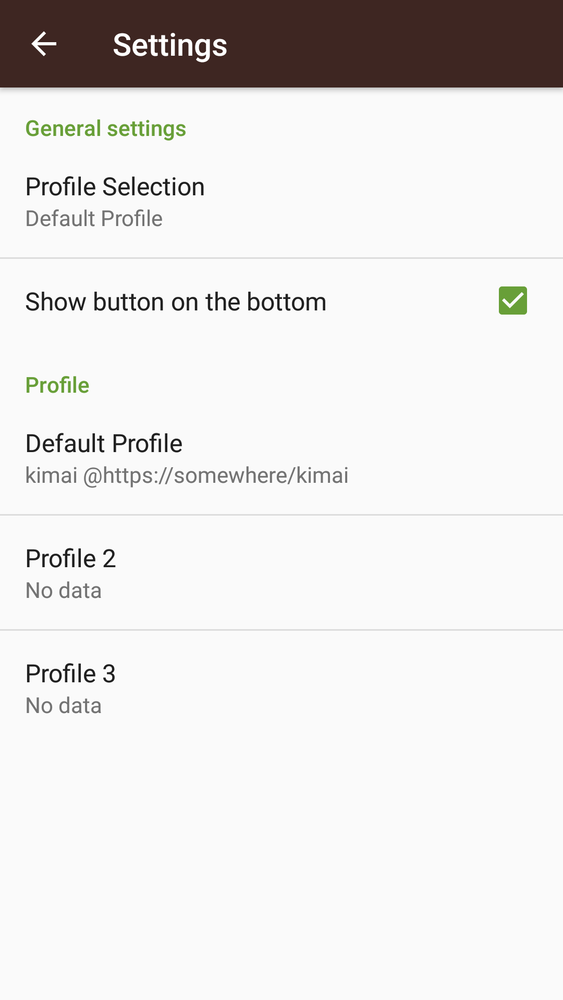
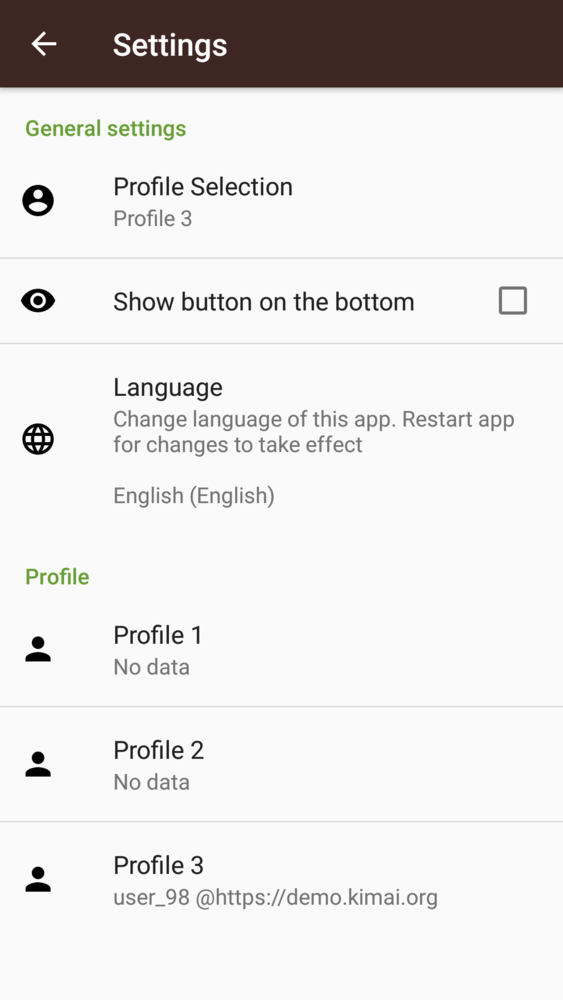
HTTP basic auth ; Update metadata graphics ;Update readme layout

diff --git a/app/src/main/java/io/github/gsantner/webappwithlogin/activity/MainActivity.java b/app/src/main/java/io/github/gsantner/webappwithlogin/activity/MainActivity.java
@@ -15,6 +15,7 @@ import android.view.KeyEvent;
 import android.view.Menu;
 import android.view.MenuItem;
 import android.view.View;
+import android.webkit.HttpAuthHandler;
 import android.webkit.SslErrorHandler;
 import android.webkit.WebChromeClient;
 import android.webkit.WebSettings;
@@ -73,7 +74,7 @@ public class MainActivity extends AppCompatActivity implements NavigationView.On
         fab.setVisibility(appSettings.isShowMainFab() ? View.VISIBLE : View.GONE);
         appSettings.setReloadRequired(false);
 
-        if (appSettings.isAppFirstStart(false)){
+        if (appSettings.isAppFirstStart(false)) {
             appSettings.setShowMainFab(false);
         }
 
@@ -84,16 +85,27 @@ public class MainActivity extends AppCompatActivity implements NavigationView.On
         webSettings.setDatabaseEnabled(true);
         webSettings.setDomStorageEnabled(true);
         webSettings.setBuiltInZoomControls(true);
+        webSettings.setDisplayZoomControls(false);
         webSettings.setSupportZoom(appSettings.isProfileLoadInDesktopMode());
         webSettings.setLoadWithOverviewMode(appSettings.isProfileLoadInDesktopMode());
         webSettings.setUseWideViewPort(appSettings.isProfileLoadInDesktopMode());
         webView.setWebViewClient(new WebViewClient() {
+            @Override
             public void onReceivedSslError(WebView view, SslErrorHandler handler, SslError error) {
                 if (appSettings.isProfileAcceptAllSsl()) {
                     handler.proceed();
                 } else {
                     Snackbar.make(findViewById(android.R.id.content), R.string.ssl_toast_error, Snackbar.LENGTH_SHORT).show();
                     webView.loadData(getString(R.string.ssl_webview_error_str), "text/html", "UTF-16");
+                }
+            }
+
+            @Override
+            public void onReceivedHttpAuthRequest(WebView view, HttpAuthHandler handler, String host, String realm) {
+                if (appSettings.isProfileHttpBasicEnabled()) {
+                    handler.proceed(appSettings.getProfileHttpBasicAuthUsername(), appSettings.getProfileHttpBasicAuthPassword());
+                } else {
+                    handler.cancel();
                 }
             }
         });

diff --git a/app/src/main/java/io/github/gsantner/webappwithlogin/util/AppSettings.java b/app/src/main/java/io/github/gsantner/webappwithlogin/util/AppSettings.java
@@ -133,12 +133,16 @@ public class AppSettings extends AppSettingsBase {
         setBool(prefCurrentProfile, R.string.pref_key__profile_load_in_desktop_mode, value);
     }
 
-    public String getProfileHttpAuthUsername() {
-        return getString(prefCurrentProfile, R.string.pref_key__profile_httpauth_username, rstr(R.string.default_username));
+    public boolean isProfileHttpBasicEnabled() {
+        return getBool(prefCurrentProfile, R.string.pref_key__profile_enable_http_basic_auth, false);
     }
 
-    public String getProfileHttpAuthPassword() {
-        return getString(prefCurrentProfile, R.string.pref_key__profile_httpauth_password, "");
+    public String getProfileHttpBasicAuthUsername() {
+        return getString(prefCurrentProfile, R.string.pref_key__profile_login_username_basic, rstr(R.string.default_username));
+    }
+
+    public String getProfileHttpBasicAuthPassword() {
+        return getString(prefCurrentProfile, R.string.pref_key__profile_login_password_basic, "");
     }
 
     public void setProfileLoginUsername(String value) {

diff --git a/README.md b/README.md
@@ -1,33 +1,24 @@
-![App Logo](https://raw.githubusercontent.com/gsantner/kimai-android/master/wawl/res/drawable-hdpi/ic_launcher.png "App Logo") Kimai TimeTracker
-=======
-
-## General
-License: **MIT**  
-Android app created and maintained by Gregor Santner (<https://gsantner.github.io>), 2014-  
-
+[![GitHub release](https://img.shields.io/github/release/gsantner/kimai-android.svg)](https://github.com/gsantner/kimai-android/releases)
+[![Donate](https://img.shields.io/badge/donate-bitcoin-orange.svg)](https://gsantner.github.io/#donate)
 [![CircleCI](https://circleci.com/gh/gsantner/kimai-android.svg?style=shield)](https://circleci.com/gh/gsantner/kimai-android)
-<span class="badge-bitcoin"><a href="https://gsantner.github.io/donate/#donate" title="Donate once-off to this project using Bitcoin"><img src="https://img.shields.io/badge/bitcoin-donate-yellow.svg" alt="Bitcoin donate button" /></a></span>
+[![Translate - with Stringlate](https://img.shields.io/badge/stringlate-translate-green.svg)](https://lonamiwebs.github.io/stringlate/translate?git=https%3A%2F%2Fgithub.com%2Fgsantner%2Fkimai-android.git&name=Kimai%20TT&web=https%3A%2F%2Fgithub.com%2Fgsantner%2Fkimai-android)
 
-<p align="left">
+# Kimai TimeTracker
+<img src="/wawl/ic_launcher-web.png" align="left" width="100" hspace="10" vspace="10">
+Android app for the time managment application <a href="http://www.kimai.org/">Kimai</a>.
+It makes mobile time tracking and logging into your kimai existing installation easier.</br>
+
+<div style="display:flex;" >
 <a href="https://f-droid.org/repository/browse/?fdid=de.live.gdev.timetracker">
-    <img alt="Get it on F-Droid"
-        height="80"
-        src="https://f-droid.org/badge/get-it-on.png" />
-        </a>
+    <img src="https://f-droid.org/badge/get-it-on.png" alt="Get it on F-Droid" height="80">
+</a>
 <a href="https://play.google.com/store/apps/details?id=de.live.gdev.timetracker">
-    <img alt="Get it on Google Play"
-        height="80"
-        src="https://play.google.com/intl/en_us/badges/images/generic/en_badge_web_generic.png" />
-	</a>  
-</p>
+    <img alt="Get it on Google Play" height="80" src="https://play.google.com/intl/en_us/badges/images/generic/en_badge_web_generic.png" />
+</a>
+</div></br>
 
 
-## Download
-
-* [Official F-Droid repo](https://f-droid.org/repository/browse/?fdid=de.live.gdev.timetracker) - [(Metadata)](https://gitlab.com/fdroid/fdroiddata/blob/master/metadata/de.live.gdev.timetracker.txt)
-* [Google Play](https://play.google.com/store/apps/details?id=de.live.gdev.timetracker)
-
-## English description
+## Description
 App for the time managment application Kimai.
 This app makes mobile tracking and logging into your kimai existing installation easier.
 You have to enter the URL, username, and password of your installation, if you want to be auto logged in after application start check the appropiate box.
@@ -40,34 +31,38 @@ Normally you have to open your browser, go to favourites, click your kimai page,
 This app was developed under non commercial purposes.
 Actually there are no, and there will never be advertisments.
 
-## License
-The code of the app is licensed MIT. The translations are licensed CC0 1.0.  
-For more licensing informations, see [`3rd party licenses`](/app/src/main/res/raw/licenses_3rd_party.md).  
-
-## Privacy
+### Privacy
 This app doesn't open connections to anywhere else than your entered kimai url.
 Any other data than your entered data won't be collected or stored on your device.
 
-## Donations
-<table>
- <tr>
-	<td><a href="bitcoin:1B9ZyYdQoY9BxMe9dRUEKaZbJWsbQqfXU5?amount=0.001&label=Thanks">
-    <img src="https://gsantner.github.io/assets/img/personal/bitcoin/bitcoin_gsantner.png"/></a></td>
-<td>If you like my work on <b>Kimai TimeTracker</b> and Open-Source, or just want to spend me a coke, consider a small donation to my bitcoin address:
- <a href="https://gsantner.github.io/#donate">1B9ZyYdQoY9BxMe9dRUEKaZbJWsbQqfXU5</a></td>
- </tr>
-</table>
+## Contributions
+The project is always open for contributions and accepts pull requests.
+The project uses [AOSP Java Code Style](https://source.android.com/source/code-style#follow-field-naming-conventions), with one exception: private members are `_camelCase` instead of `mBigCamel`. You may use Android Studios _auto reformat feature_ before sending a PR.
+
+Translations can be contributed on GitHub or via [E-Mail](https://gsantner.github.io/#contact). You can use Stringlate ([![Translate - with Stringlate](https://img.shields.io/badge/stringlate-translate-green.svg)](https://lonamiwebs.github.io/stringlate/translate?git=https%3A%2F%2Fgithub.com%2Fgsantner%2Fkimai-android.git&name=Kimai%20TT&web=https%3A%2F%2Fgithub.com%2Fgsantner%2Fkimai-android)) to translate the project directly on your Android phone. It allows you to export as E-Mail attachement and to post on GitHub.
+
+If you like my work on <b>Kimai TimeTracker</b> and many other Open Source projects, consider a small donation to my bitcoin address:
+<a href="https://gsantner.github.io/#donate">1B9ZyYdQoY9BxMe9dRUEKaZbJWsbQqfXU5</a>
+
+
+#### Resources
+* Project: [Changelog](/CHANGELOG.md) | [Issues level/beginner](https://github.com/gsantner/kimai-android/issues?q=is%3Aissue+is%3Aopen+label%3Alevel%2Fbeginner) | [License](/LICENSE.txt) | [CoC](/CODE_OF_CONDUCT.md)
+* App on F-Droid: [Metadata](https://gitlab.com/fdroid/fdroiddata/blob/master/metadata/de.live.gdev.timetracker.txt) | [Page](https://f-droid.org/packages/de.live.gdev.timetracker/) | [Wiki](https://f-droid.org/wiki/page/de.live.gdev.timetracker) | [Build log](https://f-droid.org/wiki/page/de.live.gdev.timetracker/lastbuild)
+* Kimai: [Homepage](http://www.kimai.org/) | [Demo Account](https://demo.kimai.org/status.php)
+
+## Licensing
+Project created and maintained by <a href="https://gsantner.github.io">Gregor Santner</a> since 2014.
+The code of the app is licensed MIT. Localization files and resources (string\*.xml) are licensed CC0 1.0.
+For more licensing informations, see [`3rd party licenses`](/app/src/main/res/raw/licenses_3rd_party.md).  
+
 
 ## Screenshots
-
-![Kimai main screen](https://cloud.githubusercontent.com/assets/6735650/23229190/a10b60cc-f93f-11e6-9762-02c7eb12acbf.png "Main screen")
-
-<table>
-  <tr>
-    <td> <img  src="https://cloud.githubusercontent.com/assets/6735650/26566133/0fca845a-44f1-11e7-8060-702d774f1a1e.png"/> </td>
-    <td> <img src="https://cloud.githubusercontent.com/assets/6735650/26566134/0fce2010-44f1-11e7-8f08-4991b7d1dfd3.png"/> </td>
-  </tr><tr>
-    <td> <img src="https://cloud.githubusercontent.com/assets/6735650/26566135/0fe766a6-44f1-11e7-9728-8f49ccec1f83.png"/> </td>
-    <td> <img src="https://cloud.githubusercontent.com/assets/6735650/23229880/33c69f4c-f942-11e6-84d7-4b2b700e26b1.png" /> </td>
-  </tr>
-</table>
+<div style="display:flex;" >
+	<img src="https://raw.githubusercontent.com/gsantner/kimai-android/master/metadata/en-US/phoneScreenshots/01.png" width="59%" >
+</div>
+<div style="display:flex;" >
+	<img src="https://raw.githubusercontent.com/gsantner/kimai-android/master/metadata/en-US/phoneScreenshots/03.png" width="24%" >
+	<img src="https://raw.githubusercontent.com/gsantner/kimai-android/master/metadata/en-US/phoneScreenshots/04.png" width="24%" style="margin-left:10px;" >
+	<img src="https://raw.githubusercontent.com/gsantner/kimai-android/master/metadata/en-US/phoneScreenshots/05.png" width="24%" style="margin-left:10px;" >
+	<img src="https://raw.githubusercontent.com/gsantner/kimai-android/master/metadata/en-US/phoneScreenshots/02.png" width="24%" style="margin-left:10px;" >
+</div>

diff --git a/CHANGELOG.md b/CHANGELOG.md
@@ -1,6 +1,9 @@
 ### v1.3.9
 - Updated: Project icon
+- Added: HTTP basic auth login support
 - Added: Icons to settings
+- Updated: F-Droid metadata
+- Updated: Readme layout
 
 ### v1.3.8
 - Added: Option to change app language
